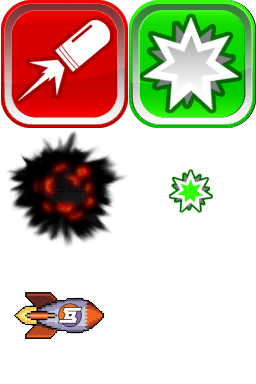
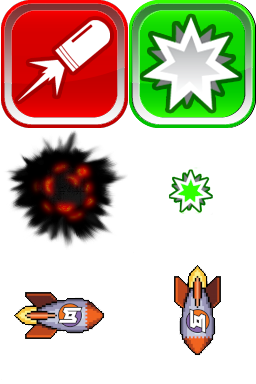
drastically enhance rocket jumping by always shooting a real projectile and on explosing check distance and angle for the boost. also allows double/tripple rocket jumping! also enhance camera position for high player speed.

Changed region(s): [[0.6562, 0.6875, 0.875, 0.9375]]

diff --git a/src/Player.py b/src/Player.py
@@ -14,6 +14,7 @@ from src import sounds, config
 class Player(Entity):
     def __init__(self, surface: pygame.surface.Surface, camera: Camera):
         super(Player, self).__init__(Vector2(0, 0), Rectangle(Vector2(0, 0), WIDTH, HEIGHT))
+        self.distance_to_ground = 0
         self.last_boost = 0
         self.acceleration = 0
         self.camera = camera
@@ -154,6 +155,7 @@ class Player(Entity):
         self.handle_inputs()
 
         self.can_uncrouch = self.crouching and self.check_can_uncrouch()
+        self.distance_to_ground = self.get_distance_to_collider_below()
 
         # Handle state transitions
         if self.vel.y > 0 and self.current_action_state != 'Plasma_State':
@@ -182,14 +184,12 @@ class Player(Entity):
                         sounds.weapon_empty.play()
                     else:
                         self.rocket_ammo -= 1
+                        sounds.rocket_launch.play()
+                        channel = sounds.rocket_fly.play(loops=-1)
                         if self.pressed_down:
-                            sounds.rocket_launch.play()
-                            sounds.rocket.play()
-                            self.action_states.on_event('rocket')
+                            self.level.decals.append(Decal(Decal.PROJECTILE_ROCKET_DOWN, 1337000, self.pos.x + 25, self.pos.y + 8, self.vel.x, 0.7, 0.1, -0.001, channel))
                         else:
-                            sounds.rocket_launch.play()
-                            channel = sounds.rocket_fly.play(loops=-1)
-                            self.level.decals.append(Decal(Decal.PROJECTILE_ROCKET, 1337000, self.pos.x + 40, self.pos.y + 8, self.vel.x + 1, 1, -0.00075, channel))
+                            self.level.decals.append(Decal(Decal.PROJECTILE_ROCKET, 1337000, self.pos.x + 40, self.pos.y + 8, self.vel.x + 1, 0,1, -0.00075, channel))
 
 
             elif self.active_weapon == 'plasma':
@@ -512,36 +512,32 @@ class Player(Entity):
 
         self.vel.x += boost
 
-    def add_rocket_velocity(self):
-        distance = self.get_distance_to_collider_below()
+    def add_rocket_velocity(self, distance, angle_rad):
+        print("add rocket velocity", distance, angle_rad)
         if distance is not None:
-            if distance < 1 and not self.pressed_jump:
-                vel = 0.4
-            elif distance <= 5:
-                vel = 0.32
-            elif distance < 10:
-                vel = 0.256
-            elif distance < 20:
-                vel = 0.223
-            elif distance < 30:
-                vel = 0.2
-            elif distance < 40:
-                vel = 0.175
-            elif distance < 50:
-                vel = 0.15
-            elif distance < 60:
-                vel = 0.125
-            else:
-                vel = 0
 
+            vel_magnitude = 1 / (1 + 0.04 * distance)
+
+            print("vel_magnitude", vel_magnitude)
+
+            # Calculate x and y components of velocity
+            vel_x = -0.5 * vel_magnitude * math.cos(angle_rad)
+            vel_y = vel_magnitude * math.sin(angle_rad)
+
+            print("vel", vel_x, vel_y)
+            
+            # Invert y component because game coordinates have y increasing downward
+            #vel_y = -vel_y
+            
             # add additional momentum when jumping from a ramp
-            if self.last_ramp_radians > 0:
-                vel += 0.225 * (self.vel.x * math.sin(self.last_ramp_radians) + self.vel.x * math.cos(self.last_ramp_radians))
-                self.last_ramp_radians = 0
-
-            self.vel.y -= vel
-
-        return distance
+            #if self.last_ramp_radians > 0:
+            #    ramp_boost = 0.225 * (self.vel.x * math.sin(self.last_ramp_radians) + self.vel.x * math.cos(self.last_ramp_radians))
+            #    vel_y -= ramp_boost
+            #    self.last_ramp_radians = 0
+            
+            # Apply velocity components
+            self.vel.x += vel_x
+            self.vel.y += vel_y
 
     class Idle_State(State):
         """State when on the ground and not moving"""
@@ -633,9 +629,9 @@ class Player(Entity):
 
         def on_enter(self, owner_object):
             print(__class__, pygame.time.get_ticks())
-            owner_object.animation.reset_anim()
-            distance = owner_object.add_rocket_velocity()
-            owner_object.level.decals.append(Decal(Decal.DECAL_ROCKET, 500, owner_object.pos.x, owner_object.pos.y + distance + owner_object.shape.h / 2 + 10))
+            #owner_object.animation.reset_anim()
+            #owner_object.add_rocket_velocity()
+            #owner_object.level.decals.append(Decal(Decal.DECAL_ROCKET, 500, owner_object.pos.x, owner_object.pos.y + owner_object.distance_to_ground + owner_object.shape.h / 2 + 10))
 
 
         def update(self, owner_object):

diff --git a/src/Level.py b/src/Level.py
@@ -1,4 +1,4 @@
-import os.path
+import os.path, math
 import pygame, yaml, random
 
 from src.Vector2 import Vector2
@@ -133,25 +133,32 @@ class Level:
         for i in range(len(self.decals) - 1, -1, -1):
             if self.decals[i].start_time + self.decals[i].duration < pygame.time.get_ticks():
                 del self.decals[i]
-            elif self.decals[i].vel_x > 0:
+            elif self.decals[i].vel_x > 0 or self.decals[i].vel_y > 0:
                 self.decals[i].x += self.decals[i].vel_x * config.delta_time
+                self.decals[i].y += self.decals[i].vel_y * config.delta_time
                 self.last_decal_velocity += config.delta_time
                 if self.last_decal_velocity > 1000 and (self.decals[i].vel_x > self.decals[i].target_vel):
                     self.decals[i].vel_x += self.decals[i].acc
                 if self.decals[i].sound is not None:
                     distance = abs(player.pos.x - self.decals[i].x)
                     self.decals[i].sound.set_volume(1 - (distance / 1000))
-                if self.decals[i].sprite == Decal.PROJECTILE_PLASMA or self.decals[i].sprite == Decal.PROJECTILE_ROCKET:
+                if self.decals[i].sprite == Decal.PROJECTILE_PLASMA or self.decals[i].sprite == Decal.PROJECTILE_ROCKET or self.decals[i].sprite == Decal.PROJECTILE_ROCKET_DOWN:
                     collider = self.decals[i].check_collisions(self.static_colliders + self.ramp_colliders)
                     if collider is not None:
-                        if self.decals[i].sprite == Decal.PROJECTILE_ROCKET:
+                        if self.decals[i].sprite == Decal.PROJECTILE_ROCKET or self.decals[i].sprite == Decal.PROJECTILE_ROCKET_DOWN:
+                            print("rocket collision with static")
                             x = self.decals[i].x
                             y = self.decals[i].y
                             del self.decals[i]
                             self.decals.append(Decal(Decal.DECAL_ROCKET, 500, x, y))
-                            distance = abs(player.pos.x - x)
-                            sounds.rocket.set_volume(1 - (distance / 1000))
+
+                            dx = player.pos.x - x
+                            dy = player.pos.y - y
+                            distance = math.sqrt(dx ** 2 + dy ** 2)
+                            angle_rad = math.atan2(dy, dx)
+                            #sounds.rocket.set_volume(1 - (distance / 1000))
                             sounds.rocket.play()
+                            player.add_rocket_velocity(distance, angle_rad)
                         if self.decals[i].sprite == Decal.PROJECTILE_PLASMA:
                             self.decals[i].x += random.randrange(-5, 5)
                             self.decals[i].y += random.randrange(-5, 5)
@@ -160,17 +167,18 @@ class Level:
                             self.decals[i].duration = 300
 
                     # player hit by rocket from behind
-                    elif self.decals[i].vel_x > self.player.vel.x and self.decals[i].sprite == Decal.PROJECTILE_ROCKET:
-                        collider = self.decals[i].check_collisions([self.player])
-                        if collider is not None:
-                            x = self.decals[i].x
-                            y = self.decals[i].y
-                            del self.decals[i]
-                            self.decals.append(Decal(Decal.DECAL_ROCKET, 500, x, y))
-                            sounds.rocket.set_volume(1)
-                            sounds.rocket.play()
-                            self.player.vel.x += 0.5
-                            self.player.vel.y -= 0.5
+                    #elif self.decals[i].vel_x > self.player.vel.x and self.decals[i].sprite == Decal.PROJECTILE_ROCKET:
+                    #    collider = self.decals[i].check_collisions([self.player])
+                    #    if collider is not None:
+                    #        print("rocket collision with PLAYER")
+                    #        x = self.decals[i].x
+                    #        y = self.decals[i].y
+                    #        del self.decals[i]
+                    #        self.decals.append(Decal(Decal.DECAL_ROCKET, 500, x, y))
+                    #        sounds.rocket.set_volume(1)
+                    #        sounds.rocket.play()
+                    #        self.player.vel.x += 0.5
+                    #        self.player.vel.y -= 0.5
 
     def draw(self):
         self.surface.fill(config.BACKGROUND_COLOR)

diff --git a/src/Camera.py b/src/Camera.py
@@ -7,6 +7,8 @@ class Camera(Rectangle):
     def __init__(self, pos, w, h):
         super(Camera, self).__init__(pos, w, h)
         self.start_pos_y = pos.y
+        self.smoothing_factor = 0.05  # Smoothing factor for camera movement
+        self.forward_factor = 0.15 # the faster the player, the closer he will be to the right side of the screen
 
     def contains_rect(self, other):
         """Checks if camera horizontally overlaps with a rectangle (partial or full containment)"""
@@ -75,16 +77,18 @@ class Camera(Rectangle):
 
     def update(self, player):
         """Update position of camera based on player velocity and position"""
-        # Update x position as before
-        self.pos.x = player.pos.x - 30 - (player.vel.x * 50)
+        # Calculate target x position based on player position and velocity
+        target_x = player.pos.x - 30
+        # Apply smoothing to horizontal movement
+        diff_x = target_x - self.pos.x
+        self.pos.x += diff_x * self.forward_factor
         
         # Calculate the player's position relative to the camera view
         player_rel_y = player.pos.y - self.pos.y
 
         # when falling, lower the bottom threshold to see where we land
         bottom_sub = 0
-        ground = player.get_distance_to_collider_below()
-        if ground is None or ground > config.SCREEN_HEIGHT * 0.35:
+        if player.distance_to_ground is None or player.distance_to_ground > config.SCREEN_HEIGHT * 0.35:
             bottom_sub = player.vel.y
 
         # Define thresholds - player can move freely within these bounds
@@ -96,9 +100,9 @@ class Camera(Rectangle):
             # Player is too high - move camera up
             target_y = player.pos.y - top_threshold
             diff_y = target_y - self.pos.y
-            self.pos.y += diff_y * 0.1
+            self.pos.y += diff_y * self.smoothing_factor
         elif player_rel_y > bottom_threshold:
             # Player is too low - move camera down
             target_y = player.pos.y - bottom_threshold
             diff_y = target_y - self.pos.y
-            self.pos.y += diff_y * 0.1
+            self.pos.y += diff_y * self.smoothing_factor

diff --git a/src/Decal.py b/src/Decal.py
@@ -18,14 +18,16 @@ class Decal(Vector2):
     ITEM_ROCKET = (0 * I_SCALE, 0 * I_SCALE, I_WIDTH_S, I_HEIGHT_S)
     DECAL_ROCKET = (0 * I_SCALE, 128 * I_SCALE, I_WIDTH_S, I_HEIGHT_S)
     PROJECTILE_ROCKET = (0 * I_SCALE, 256 * I_SCALE, I_WIDTH_S, I_HEIGHT_S)
+    PROJECTILE_ROCKET_DOWN = (128 * I_SCALE, 256 * I_SCALE, I_WIDTH_S, I_HEIGHT_S)
 
     ITEM_PLASMA = (128 * I_SCALE, 0 * I_SCALE, I_WIDTH_S, I_HEIGHT_S)
     DECAL_PLASMA = (128 * I_SCALE, 128 * I_SCALE, I_WIDTH_S, I_HEIGHT_S)
     PROJECTILE_PLASMA = (128 * I_SCALE, 128 * I_SCALE, I_WIDTH_S, I_HEIGHT_S)
 
-    def __init__(self, sprite, duration, x, y, vel_x = 0, target_vel = 0, acc = 0, sound = None):
+    def __init__(self, sprite, duration, x, y, vel_x = 0, vel_y = 0, target_vel = 0, acc = 0, sound = None):
         super(Decal, self).__init__(x, y)
         self.vel_x = vel_x
+        self.vel_y = vel_y
         self.target_vel = target_vel
         self.acc = acc
         self.sprite = sprite

diff --git a/src/config.py b/src/config.py
@@ -41,7 +41,7 @@ CAPTION = 'Racesow Arcade'
 PLAYER_ACCELERATION = 0.00015
 MAX_RUN_VEL = 0.75
 MAX_OVERAL_VEL = 2
-MAX_FALL_VEL = 0.5
+MAX_FALL_VEL = 1
 GRAVITY = 0.00092
 MAX_JUMP_HEIGHT = 100000
 MAX_WALLJUMP_HEIGHT = 42
